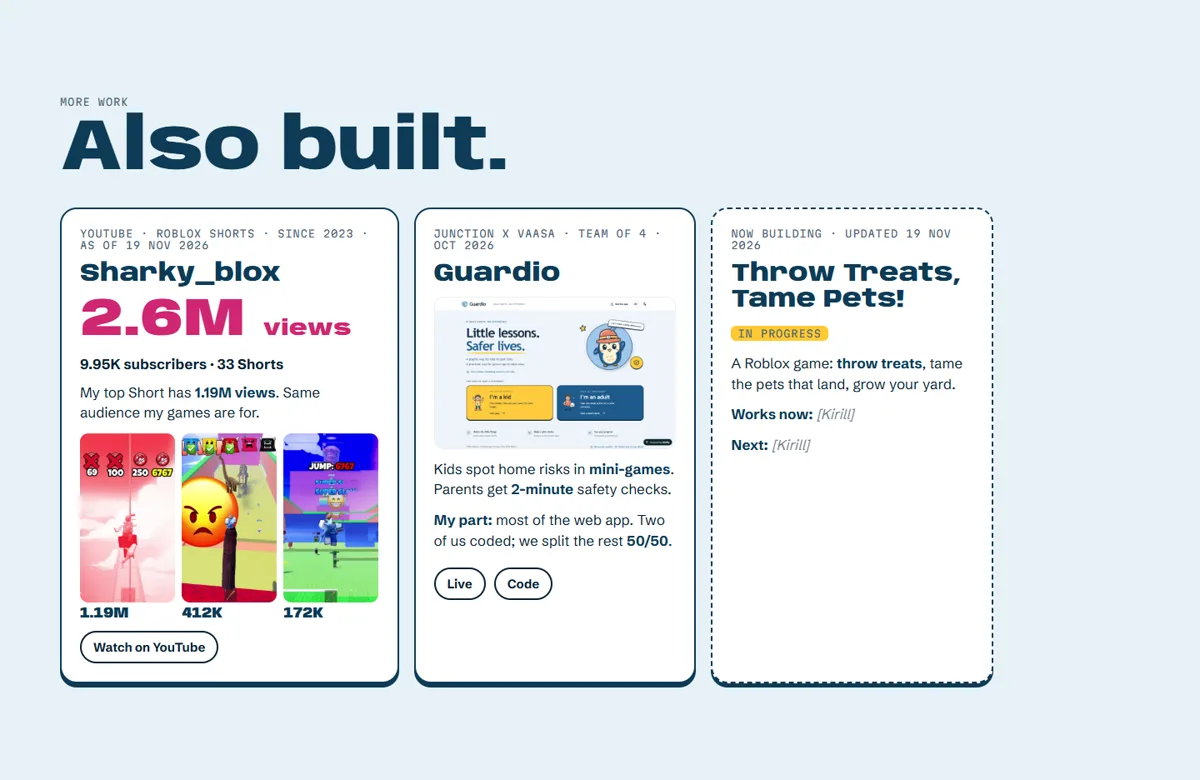
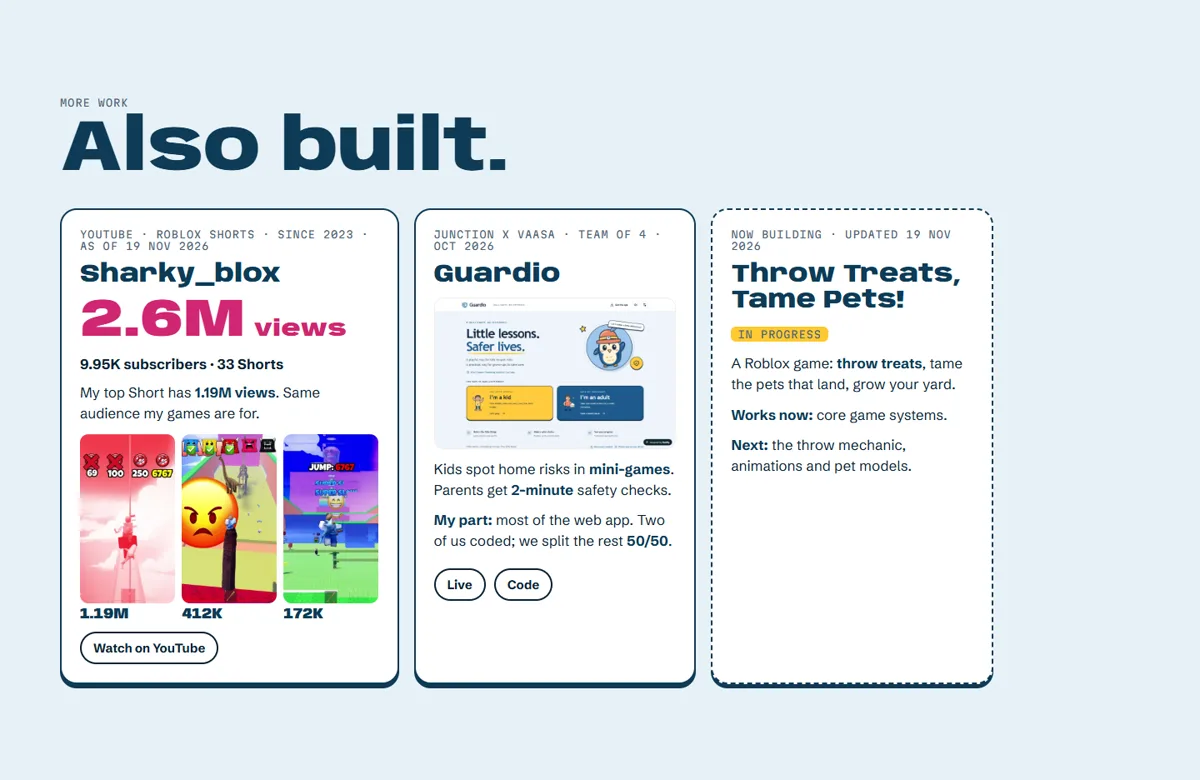
Mock: final answers, mobile type fixes checked at 360/390

diff --git a/concepts/f-full-copy.html b/concepts/f-full-copy.html
@@ -43,7 +43,10 @@
   /* hackathons strip */
   .strip { background: linear-gradient(90deg, rgba(9,7,9,.92), rgba(9,7,9,.55) 60%, rgba(9,7,9,.25)), var(--night) url(../public/media/junction-2026/04-main-hall-wide-lg.webp) center / cover; min-height: 80vh; display: flex; align-items: flex-end; }
   .strip .inner { width: 100%; min-width: 0; }
-  .display { overflow-wrap: anywhere; }
+  .display { overflow-wrap: normal; word-break: normal; hyphens: none; }
+  .tagx { background: #e4e2dc; color: #333; padding: 1px 6px; border-radius: 4px; font-size: 10px; vertical-align: 2px; }
+  .card .big.yt { white-space: nowrap; display: flex; align-items: baseline; gap: 10px; font-size: clamp(48px, 5vw, 64px); }
+  .card .big.yt span { font-size: .42em; }
   .strip h2 { font-size: clamp(44px, 8vw, 128px); color: #fff; margin: 14px 0 34px; }
   .events { display: grid; grid-template-columns: repeat(3, minmax(0, 1fr)); gap: 16px; max-width: 980px; }
   .ev { border-top: 2px solid #ffffff40; padding-top: 12px; }
@@ -140,7 +143,22 @@
   .notfound p { font-size: 22px; margin: 0 0 24px; }
   .mocknote { background: #111; color: #fff; text-align: center; padding: 10px; }
 
-  @media (max-width: 860px) { .two, .subs, .cards, .events { grid-template-columns: 1fr; } .results { gap: 10px; } .results p { font-size: 13px; } .tl li { grid-template-columns: 1fr; gap: 2px; } }
+  @media (max-width: 860px) {
+    .two, .subs, .cards, .events { grid-template-columns: 1fr; }
+    .tl li { grid-template-columns: 1fr; gap: 2px; }
+    /* big figures: one per row, figure + label side by side */
+    .results { grid-template-columns: 1fr; gap: 14px; }
+    .results > div { display: grid; grid-template-columns: 7.8rem minmax(0, 1fr); align-items: center; gap: 12px; }
+    .results .big { font-size: clamp(34px, 10vw, 52px); white-space: nowrap; }
+    .results p { margin: 0; font-size: 16px; }
+    /* headings: longest word must fit at 360 px */
+    .hero h1 { font-size: clamp(38px, 11.5vw, 116px); }
+    .case h2, #case-03 h2, #case-02 h2 { font-size: clamp(34px, 10.4vw, 100px); }
+    .strip h2 { font-size: clamp(36px, 10.6vw, 128px); }
+    h2.sec { font-size: clamp(34px, 10.4vw, 88px); }
+    .contact h2, .notfound h1 { font-size: clamp(38px, 11.6vw, 150px); }
+    .sub h3 { font-size: clamp(28px, 8.6vw, 48px); }
+  }
 </style>
 </head>
 <body>
@@ -241,7 +259,6 @@
         </div>
       </div>
     </div>
-    <div class="blocks" style="margin-top:44px"><div class="block"><p><span class="lead">Next time.</span><span class="todo">[Kirill: one sentence for the Turku weekend]</span></p></div></div>
     <div class="cta">Want to build something together? <a class="mail" href="mailto:k.jegosin@gmail.com">k.jegosin@gmail.com</a></div>
   </div>
 </section>
@@ -266,9 +283,9 @@
       </div>
       <div class="blocks">
         <div class="block"><p><span class="lead">My part.</span><b>Everything</b>: game design, all the Luau code, the UI in React-lua.</p></div>
-        <div class="block"><p><span class="lead">Hardest call.</span><b>The server decides.</b> The player only asks to place a tower; the server checks the spot and takes the cash first.</p></div>
+        <div class="block"><p><span class="lead">Hardest call.</span>The UI is <b>more than half the game</b>: ~23K lines of React-lua, touched in <b>96 of 223 commits</b>. In July I dropped plain Roblox GUIs and rebuilt it in React-lua, so new screens like summons and rewards could keep coming.</p></div>
         <div class="block"><p><span class="lead">Proof it works.</span>My <b>Python scripts drive Roblox Studio</b>: they play a match, try bad placements, check phone layouts and measure frame times.</p></div>
-        <div class="block"><p><span class="lead">Next time.</span><span class="todo">[Kirill: one sentence]</span></p></div>
+        <div class="block"><p><span class="lead">Next time.</span>Get <b>real players testing before launch</b>, not after.</p></div>
         <div class="block"><p><span class="lead">Code.</span>Waves, enemy movement and the UI are <b>public</b>. Combat and economy stay private, so cheaters can't read them.</p></div>
         <div class="btnrow"><a class="pill" href="https://www.roblox.com/games/86140743290043/Sky-Island-Tower-Defense">Play on Roblox</a><a class="pill" href="https://github.com/Ar7ti/sky-island-td-showcase">Read the code</a></div>
       </div>
@@ -286,7 +303,7 @@
       <article class="card">
         <div class="label">YouTube · Roblox Shorts · since 2023 · as of 19 Nov 2026</div>
         <h3>Sharky_blox</h3>
-        <div class="big">2.6M <span style="font-size:.4em">views</span></div>
+        <div class="big yt">2.6M<span>views</span></div>
         <div class="row">9.95K subscribers · 33 Shorts</div>
         <p>My top Short has <b>1.19M views</b>. Same audience my games are for.</p>
         <div class="shorts">
@@ -309,8 +326,8 @@
         <h3>Throw Treats, Tame Pets!</h3>
         <p><span class="wip label">In progress</span></p>
         <p>A Roblox game: <b>throw treats</b>, tame the pets that land, grow your yard.</p>
-        <p><b>Works now:</b> <span class="todo">[Kirill]</span></p>
-        <p><b>Next:</b> <span class="todo">[Kirill]</span></p>
+        <p><b>Works now:</b> core game systems.</p>
+        <p><b>Next:</b> the throw mechanic, animations and pet models.</p>
       </article>
     </div>
   </div>
@@ -342,9 +359,9 @@
     <details open><summary>More small things I built (6)</summary>
       <ul>
         <li><span><b>Resale ticket checker bot</b> · finds cheaper resale concert tickets for me</span><a href="https://github.com/Ar7ti/Ticketmaster_autochecker_bot">Code</a></li>
-        <li><span><b>Blockfect ticket checker bot</b> · <span class="todo">[Kirill: one line]</span></span><a href="https://github.com/Ar7ti/BlockfectTicketChecker_bot">Code</a></li>
-        <li><span><b>AI Food Checker</b> · <span class="todo">[Kirill: one line]</span></span><a href="https://github.com/Ar7ti/Ai_FoodChecker">Code</a></li>
-        <li><span><b>HealMe</b> · Flutter health app prototype</span><a href="https://github.com/Ar7ti/heal_me">Code</a></li>
+        <li><span><b>Blockfect ticket checker bot</b> · an early bot that watched a summer concert's ticket sales</span><a href="https://github.com/Ar7ti/BlockfectTicketChecker_bot">Code</a></li>
+        <li><span><b>AI Food Checker</b> <span class="tagx label">paused</span> · an early prototype of a bigger health checker</span><a href="https://github.com/Ar7ti/Ai_FoodChecker">Code</a></li>
+        <li><span><b>HealMe</b> <span class="tagx label">planned</span> · workouts, health info and an AI food tracker; early Flutter prototype</span><a href="https://github.com/Ar7ti/heal_me">Code</a></li>
         <li><span><b>First Roblox experiments</b> · learning Rojo and React-lua</span><span class="label">2026</span></li>
         <li><span><b>Old portfolio</b> · the site this one replaced</span><a href="https://home.kirills-portfolio.workers.dev/">Visit</a></li>
       </ul>
